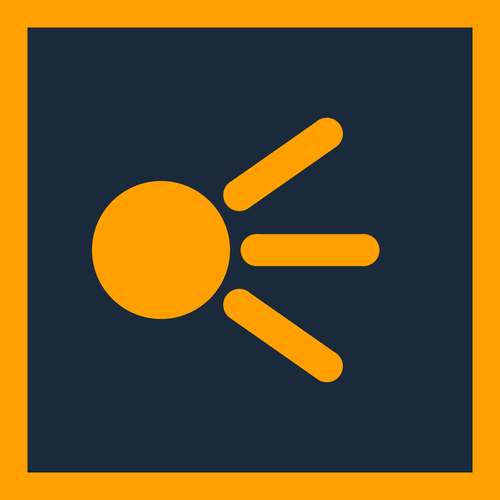
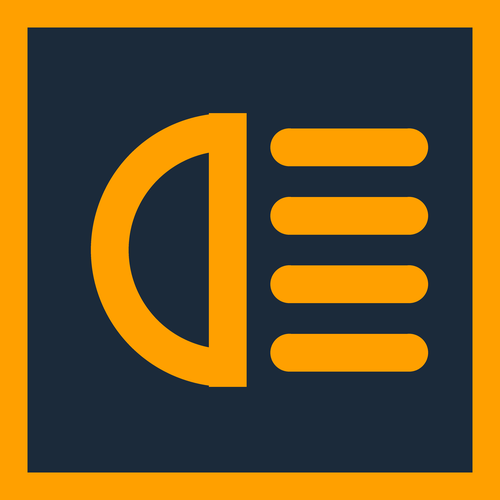
Le geste annonce est celui qui marche, et l'appli prend le phare
La case disait « Lap pour chercher » partout. Deux problemes : le mot se
lit comme une coquille de « Tap », et sur les quatre modeles ou la tape
atteint vraiment le champ — 830, 1030, 1030 Plus, Explore, tactiles et
sans barre de controle — elle envoie chercher un bouton pour rien. Le
geste est donc choisi a la compilation depuis display.isTouch et
controlBarSupport, et l'appui est nomme : « appui Lap pour chercher ».

Et l'icone de l'application compagnon devient le pictogramme de phare,
celui de ses tuiles. Les deux binaires ne se distinguaient que par un
cadre, dans une liste ou ils se suivent.

Changed region(s): [[0.18, 0.21, 0.87, 0.78]]

diff --git a/tools/make-icons.py b/tools/make-icons.py
@@ -59,6 +59,57 @@ SIZES = {
 }
 
 
+def draw_headlight(size, frame):
+    """Icone de l'application compagnon : le pictogramme de phare.
+
+    **Le meme que sur ses tuiles**, celui du tableau de bord d'une voiture : un
+    « D » couche — le reflecteur, vu de dessus — et les barres du faisceau. La
+    page de pilotage le montre en grand des qu'on l'ouvre ; le retrouver dans le
+    menu des applications, c'est reconnaitre l'application avant de l'avoir
+    lue. La lampe de poche et son eventail, elle, reste au champ de donnees.
+
+    Trace comme un arc et une barre verticale, jamais comme un disque qu'on
+    masquerait : le masque se verrait des que le fond change, ce qui etait deja
+    le defaut d'une ancienne icone d'extinction dans l'application.
+    """
+    n = size * SS
+    im = Image.new("RGB", (n, n), BG)
+    d = ImageDraw.Draw(im)
+
+    inset = 0
+    if frame:
+        w = max(2 * SS, int(n * 0.055))
+        d.rectangle([0, 0, n - 1, n - 1], outline=frame, width=w)
+        inset = w
+
+    x0, y0 = inset, inset
+    span = n - 2 * inset
+    cx, cy = x0 + span * 0.5, y0 + span * 0.5
+    r = span * 0.40
+    pen = max(1, int(span * 0.085))
+
+    # Le « D » : demi-cercle a gauche, cote plat a droite.
+    dr = (r - pen / 2.0) * 0.86
+    dx = cx - r + pen / 2.0 + dr
+    d.arc([dx - dr, cy - dr, dx + dr, cy + dr], 90, 270, fill=BEAM, width=pen)
+    d.line([dx, cy - dr, dx, cy + dr], fill=BEAM, width=pen)
+
+    # Quatre barres du faisceau, calees a droite et reparties sur la hauteur du
+    # « D ». Horizontales : c'est le feu de route, le plus lisible des deux
+    # pictogrammes a cette taille — le croisement se distingue par des barres
+    # inclinees, qui a 35 pixels ne se distinguent plus de rien.
+    bx0 = dx + dr * 0.45
+    bx1 = cx + r - pen / 2.0
+    for k in (-3, -1, 1, 3):
+        y = cy + k * dr / 4.0
+        d.line([bx0, y, bx1, y], fill=BEAM, width=pen)
+        for x in (bx0, bx1):
+            h = pen / 2.0
+            d.ellipse([x - h, y - h, x + h, y + h], fill=BEAM)
+
+    return im.resize((size, size), Image.LANCZOS)
+
+
 def draw_icon(size, frame):
     """Dessine l'icone a `size` pixels.
 
@@ -132,19 +183,24 @@ DRAWABLES_XML = """<!--
 
 
 def main():
-    for binary, frame in (("app", None), ("widget", PANEL_FRAME)):
+    # Deux dessins, un par binaire : la lampe de poche et son eventail pour le
+    # champ de donnees, le pictogramme de phare pour l'application. Ils etaient
+    # identiques a un cadre pres, et le cadre seul ne suffisait pas a les
+    # distinguer dans une liste ou ils se suivent.
+    for binary, frame, draw in (("app", None, draw_icon),
+                                ("widget", PANEL_FRAME, draw_headlight)):
         print("%s :" % binary)
         for size in sorted(SIZES):
             folder = os.path.join(ROOT, binary, "resources-icon-%d" % size)
             write(os.path.join(folder, "drawables", "launcher.png"),
-                  draw_icon(size, frame))
+                  draw(size, frame))
             with open(os.path.join(folder, "drawables", "drawables.xml"),
                       "w", encoding="utf-8", newline="\n") as f:
                 f.write(DRAWABLES_XML)
         # Icone de la fiche du store : 500x500. Meme dessin, meme fond que le
         # lanceur — la fiche et le compteur doivent montrer la meme image.
         write(os.path.join(ROOT, "store", "%s-icon-500.png" % binary),
-              draw_icon(500, frame))
+              draw(500, frame))
 
 
 if __name__ == "__main__":

diff --git a/CHANGELOG.md b/CHANGELOG.md
@@ -57,8 +57,15 @@ trace de ce qu'elle contenait.
   reçoive ; il marque aussi un tour.
 - La case du champ de données n'écrit plus « Détecter » en gros au-dessus d'une
   consigne illisible : au repos, la consigne **est** la valeur affichée.
-- Les deux consignes de repos sont raccourcies dans les treize langues — « Lap
-  pour chercher », « toucher pour chercher ». La plus longue sert de référence
+- **La consigne de repos nomme le geste qui marche sur l'appareil.** Un champ
+  de données ne reçoit la tape que sur un écran tactile *sans* barre de contrôle
+  système : quatre modèles sur treize — 830, 1030, 1030 Plus, Explore. Ailleurs
+  c'est le bouton Lap. Le choix se fait à la compilation, à partir de
+  `display.isTouch` et `controlBarSupport` des profils du SDK.
+- L'icône de l'application compagnon est désormais le **pictogramme de phare**,
+  celui de ses propres tuiles, au lieu de la lampe de poche du champ de données
+  à un cadre près. Deux dessins distincts se reconnaissent mieux qu'un cadre
+  dans une liste où les deux applications se suivent. La plus longue sert de référence
   pour choisir la police de toute la ligne de précision : une consigne bavarde
   rapetissait « lampe trouvée » et « 3 lampes à proximité » avec elle.
 
